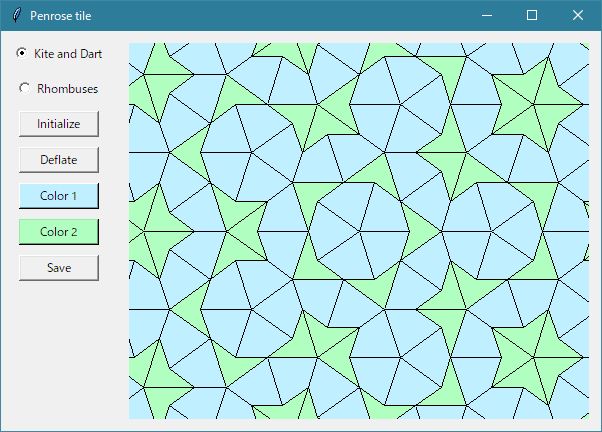
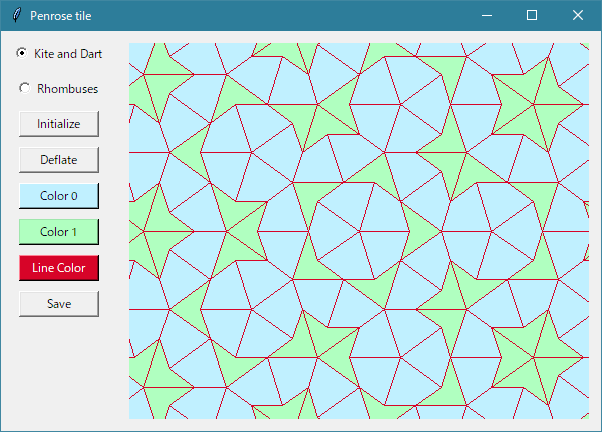
Line color can be specified

diff --git a/penrose_tile.py b/penrose_tile.py
@@ -64,36 +64,34 @@ class Pattern(object):
     def set_colors_from_rgb(self, colors):
         """colors に入っている (r, g, b) を逆順にして属性にセットする
         """
-        color1 = colors[0][2], colors[0][1], colors[0][0]
-        color2 = colors[1][2], colors[1][1], colors[1][0]
-        self.colors = (color1, color2)
+        self.colors = [list(reversed(c)) for c in colors]
 
     def draw(self, img):
         """img 配列に対して現在の状態を描画する
         """
-        for tr in self.triangles:
-            self.draw_triangle(img, tr)
+        # 輪郭はリストにまとめて最後に一括で描画する
+        polylines = []
 
-    def draw_triangle(self, img, tr):
-        """三角形を描画する
-        """
-        # 塗りつぶし
-        pts = np.array([tr.p1, tr.p2, tr.p3], np.int32)
-        pts = pts.reshape((-1, 1, 2))
-        color = self.colors[tr.type]
-        cv2.fillConvexPoly(img, pts, color)
-
-        # 輪郭
+        # 描くべき辺を取り出す関数
         if self.type == K_AND_D:
-            # Kite and Dart: 各三角形の p1-p2 の辺は描かない
-            pts = np.array([tr.p2, tr.p3, tr.p1], np.int32)
+            get_line = lambda tr: np.array([tr.p2, tr.p3, tr.p1], np.int32)
         else:
-            # 細いひし形と太いひし形: 各三角形の p2-p3 の辺は描かない
-            pts = np.array([tr.p3, tr.p1, tr.p2], np.int32)
+            get_line = lambda tr: np.array([tr.p3, tr.p1, tr.p2], np.int32)
 
-        pts = pts.reshape((-1, 1, 2))
-        cv2.polylines(img, [pts], False, (0, 0, 0), 1)
+        # すべての三角形を描画するループ
+        for tr in self.triangles:
+            # 塗りつぶし
+            pts = np.array([tr.p1, tr.p2, tr.p3], np.int32)
+            pts = pts.reshape((-1, 1, 2))
+            color = self.colors[tr.type]
+            cv2.fillConvexPoly(img, pts, color)
 
+            # 描くべき辺を取り出してリストに追加
+            polyline = get_line(tr).reshape((-1, 1, 2))
+            polylines.append(polyline)
+
+        # 輪郭を描画する
+        cv2.polylines(img, polylines, False, self.colors[2], 1)
 
     def subdivide(self):
         """すべての三角形を分割して、収縮のステップを進める
@@ -168,9 +166,12 @@ class MainWindow(tk.Tk):
         self.ptn_type = tk.IntVar()
         self.ptn_type.set(K_AND_D)
 
-        # 各タイルの色
-        self.color1 = ((192, 240, 255), '#c0f0ff')
-        self.color2 = ((176, 255, 192), '#b0ffc0')
+        # 色 (タイル1, タイル2, ライン)
+        self.colors = [
+            ((192, 240, 255), '#c0f0ff'),
+            ((176, 255, 192), '#b0ffc0'),
+            ((0, 0, 0), '#000000'),
+        ]
 
         # ボタン用のフレーム (サイドバー)
         self.button_frame = tk.Frame()
@@ -204,18 +205,25 @@ class MainWindow(tk.Tk):
             text='Deflate', command=self.deflate, width=10, state=tk.DISABLED)
         self.def_btn.pack(padx=5, pady=5, side=tk.TOP)
 
-        # カラーピッカー1
+        # カラーピッカー0 (タイル1の色)
+        self.col_btn_0 = tk.Button(
+            self.button_frame,
+            text='Color 0', command=lambda: self.pick_color(0), width=10,
+            bg=self.colors[0][1])
+        self.col_btn_0.pack(padx=5, pady=5, side=tk.TOP)
+
+        # カラーピッカー1 (タイル2の色)
         self.col_btn_1 = tk.Button(
             self.button_frame,
-            text='Color 1', command=self.pick_col_1, width=10,
-            bg=self.color1[1])
+            text='Color 1', command=lambda: self.pick_color(1), width=10,
+            bg=self.colors[1][1])
         self.col_btn_1.pack(padx=5, pady=5, side=tk.TOP)
 
-        # カラーピッカー2
+        # カラーピッカー2 (ラインの色)
         self.col_btn_2 = tk.Button(
             self.button_frame,
-            text='Color 2', command=self.pick_col_2, width=10,
-            bg=self.color2[1])
+            text='Line Color', command=lambda: self.pick_color(2), width=10,
+            bg=self.colors[2][1], fg='white')
         self.col_btn_2.pack(padx=5, pady=5, side=tk.TOP)
 
         # 保存ボタン
@@ -234,7 +242,7 @@ class MainWindow(tk.Tk):
         w = self.canvas.winfo_width()
         h = self.canvas.winfo_height()
         type = self.ptn_type.get()
-        colors = self.color1[0], self.color2[0]
+        colors = [c[0] for c in self.colors]
 
         # 初期状態のパターンを生成して、1回収縮・描画する
         self.pattern = Pattern(type, Point(w, h), colors)
@@ -246,7 +254,7 @@ class MainWindow(tk.Tk):
         self.save_btn['state'] = tk.NORMAL
 
     def deflate(self):
-        """収縮 (三角形を分割) する
+        """収縮 (三角形を分割) して描画する
         """
         if not hasattr(self, 'pattern'):
             return
@@ -270,34 +278,37 @@ class MainWindow(tk.Tk):
         self.image_tk = ImageTk.PhotoImage(self.image_pil)
         self.canvas.create_image(0, 0, image=self.image_tk, anchor=tk.NW)
 
-    def pick_col_1(self):
-        """カラーピッカーを開いて、Color1 をセットして、再描画する
+    def pick_color(self, i):
+        """カラーピッカーを開いて、色をセットして、再描画する
         """
-        color_code = colorchooser.askcolor(self.color1[0])
+        color_code = colorchooser.askcolor(self.colors[i][0])
         if all(color_code):
             rgb = [int(x) for x in color_code[0]]
-            self.color1 = (tuple(rgb), color_code[1])
-            self.col_btn_1['bg'] = color_code[1]
+            self.colors[i] = (tuple(rgb), color_code[1])
             self.apply_colors()
-
-    def pick_col_2(self):
-        """カラーピッカーを開いて、Color2 にセットして、再描画する
-        """
-        color_code = colorchooser.askcolor(self.color2[0])
-        if all(color_code):
-            rgb = [int(x) for x in color_code[0]]
-            self.color2 = (tuple(rgb), color_code[1])
-            self.col_btn_2['bg'] = color_code[1]
-            self.apply_colors()
+            self.update_col_btn(i)
 
     def apply_colors(self):
         """選択中の色を使って現在のパターンを再描画する
         """
         if not hasattr(self, 'pattern'):
             return
-        colors = self.color1[0], self.color2[0]
+        colors = [c[0] for c in self.colors]
         self.pattern.set_colors_from_rgb(colors)
         self.draw_pattern()
+
+    def update_col_btn(self, i):
+        """カラーピッカーボタンの色を更新
+        """
+        # 対象のボタンと色
+        btn = getattr(self, f'col_btn_{i}')
+        col = self.colors[i]
+
+        # ボタンの背景色をセット
+        btn['bg'] = col[1]
+        # 文字色を背景の明るさに合わせてセット
+        brightness = col[0][0] / 4 + col[0][1] * 1.8 + col[0][2] / 6
+        btn['fg'] = 'black' if brightness > 384 else 'white'
 
     def save(self):
         """表示中の画像をファイルに保存する
